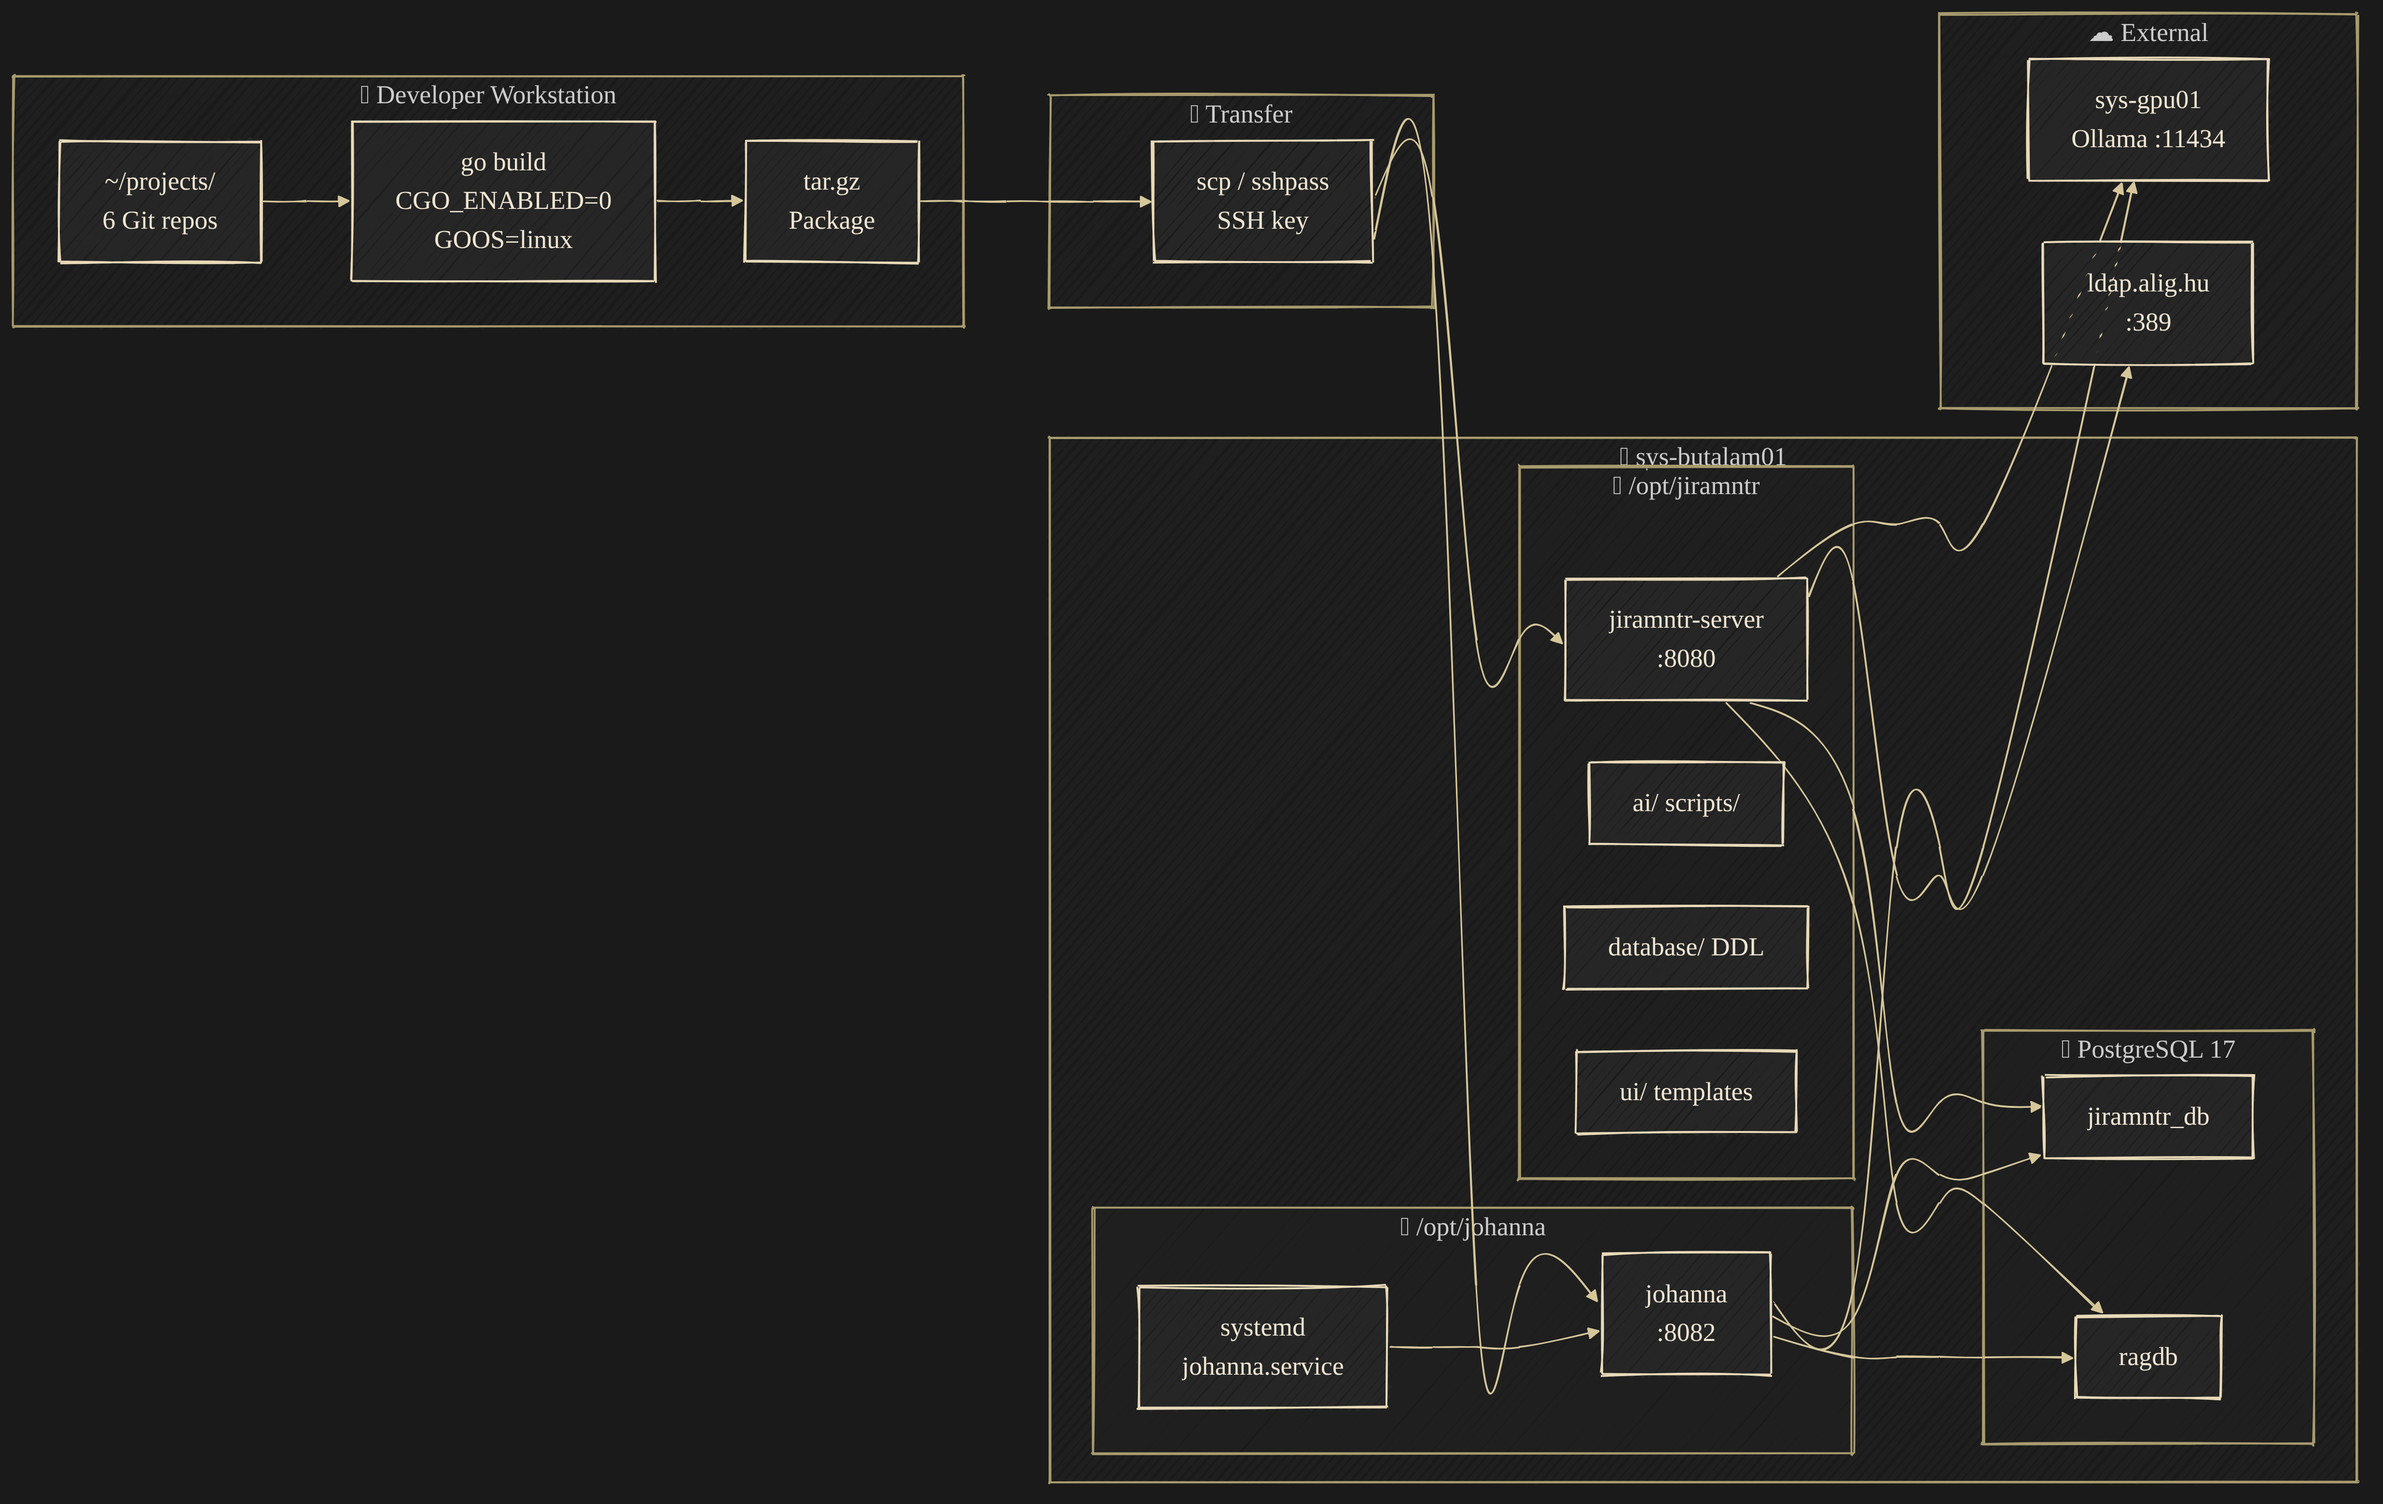
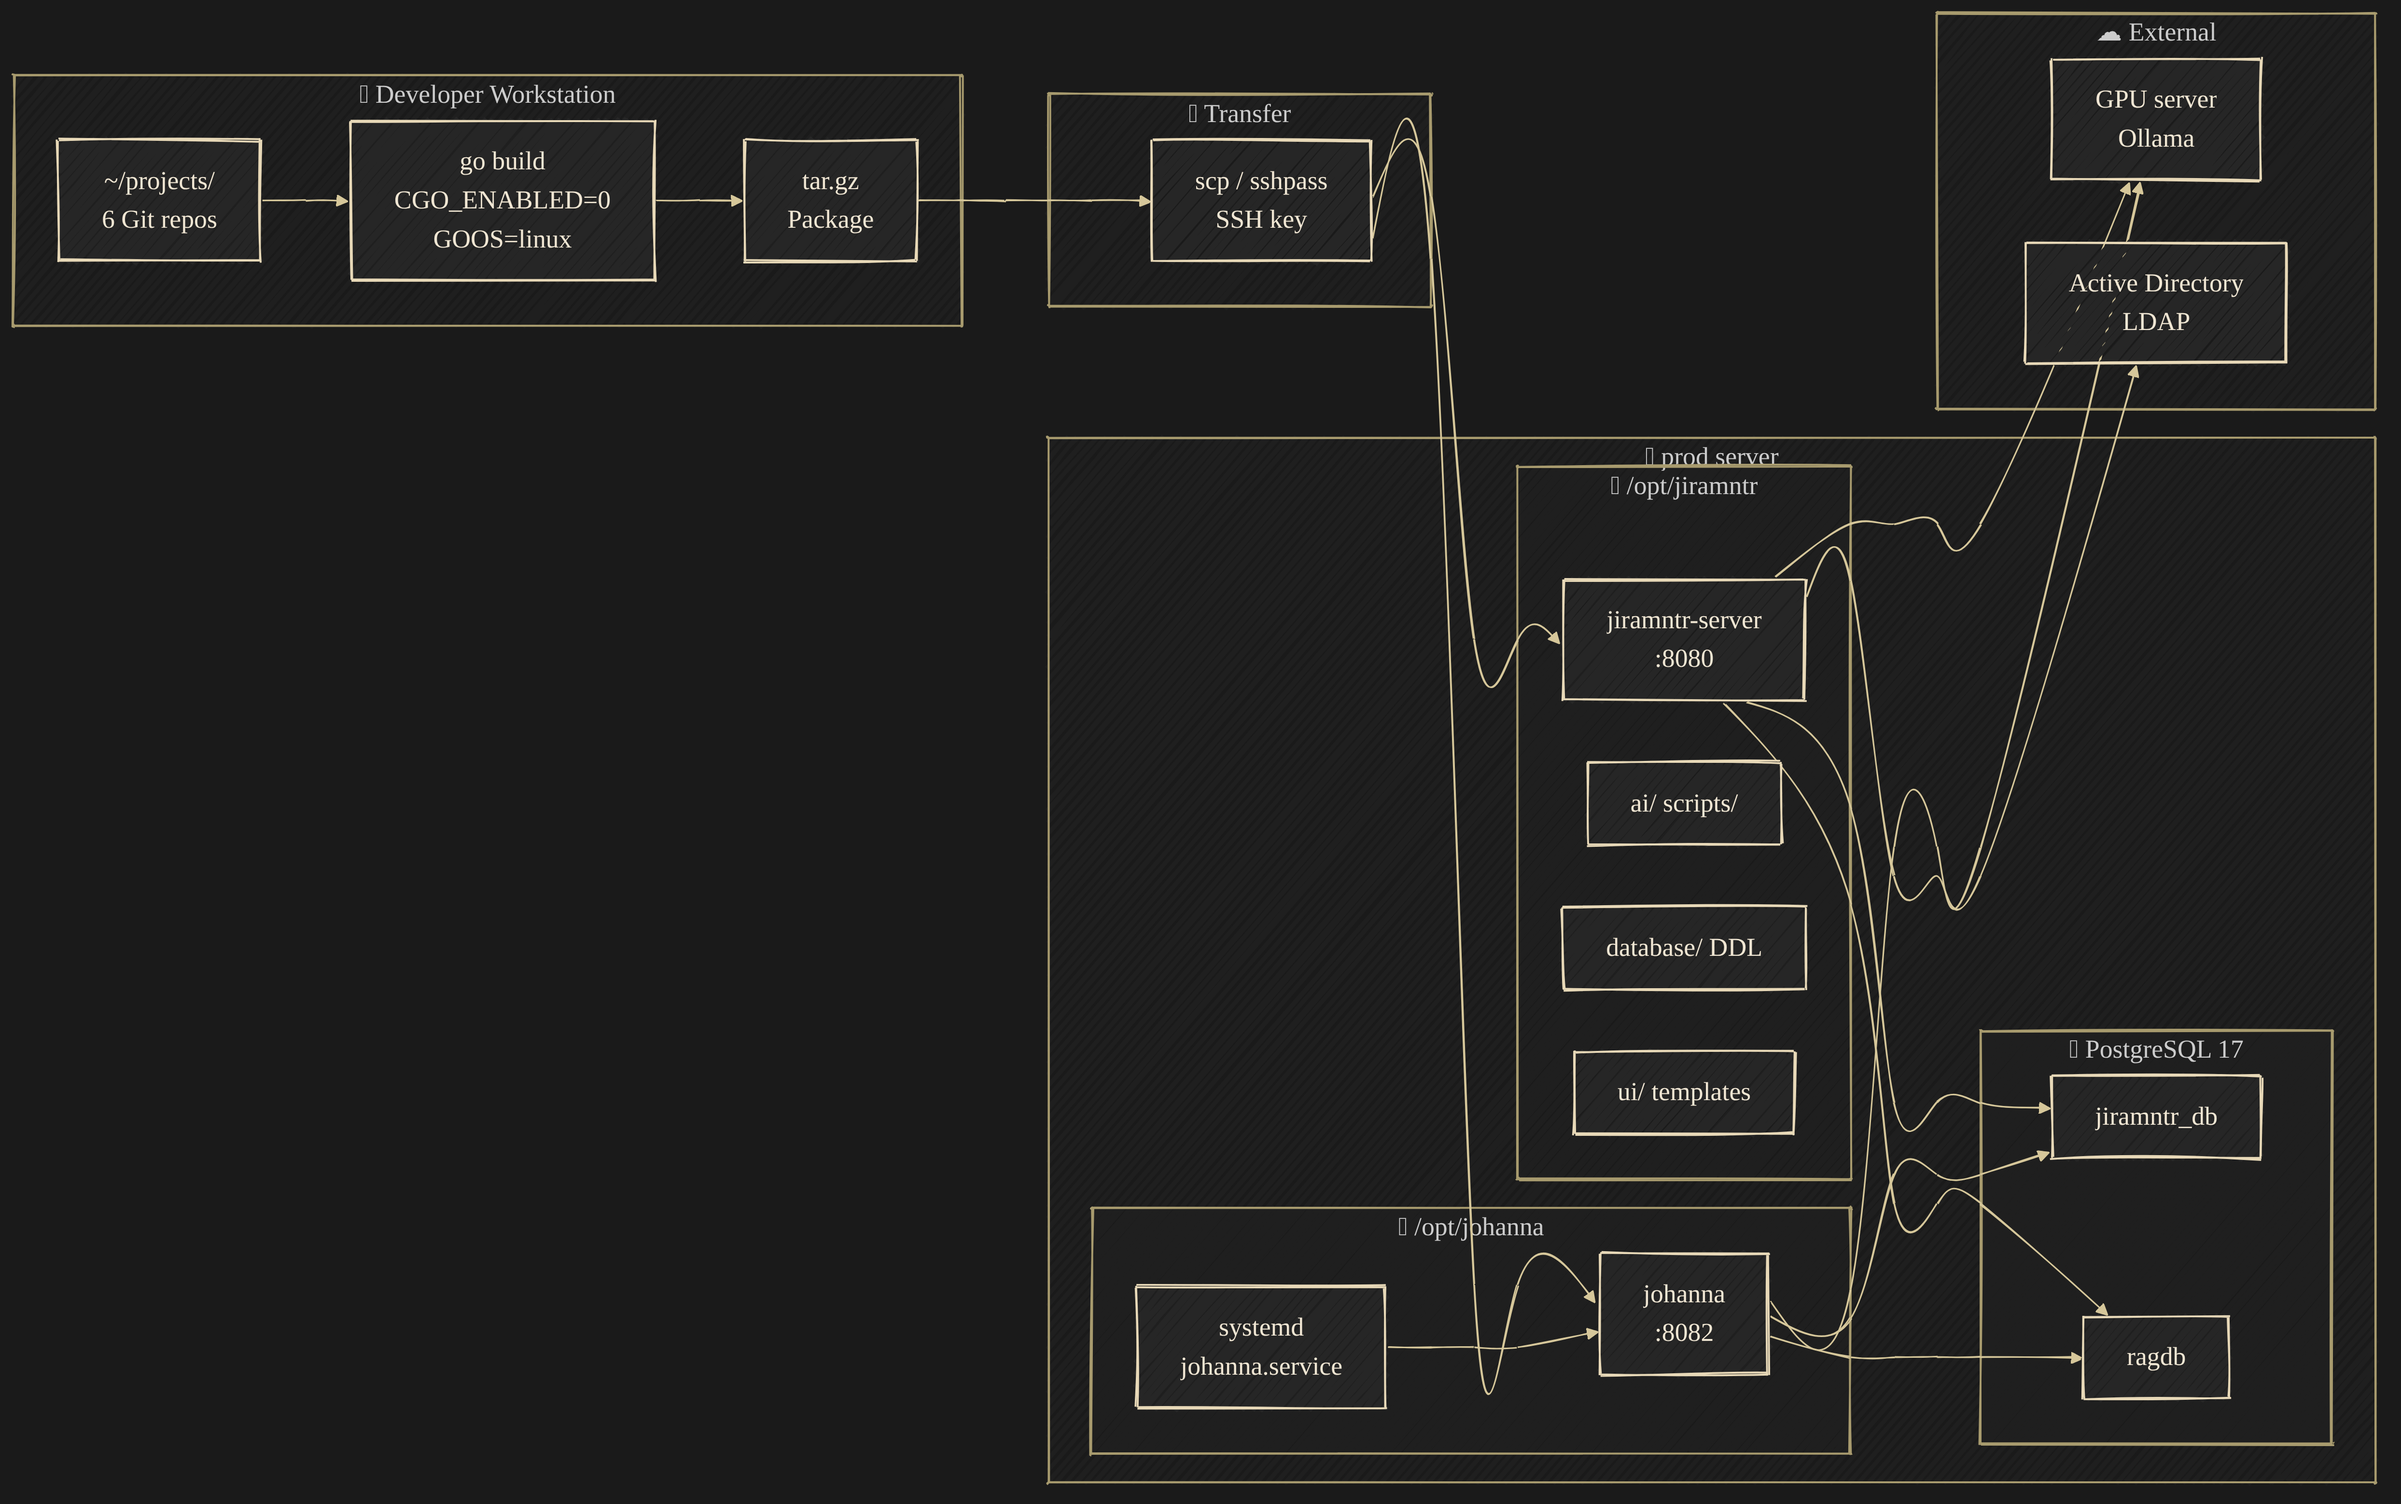
chore: generalise internal hostnames, usernames and key paths (public repo)
sys-butalam01 / sys-gpu01 / *.alig.hu / user + key names → "prod server",
"GPU server", "Active Directory" across the viewer config, docs, diagrams
(PNGs regenerated) and specs. deploy_butalam.sh → deploy.sh: the target now
comes from the local, gitignored .env.deploy (template deploy.env.example)
and the shim fails loud when a value is missing (A3) — no baked-in host.
Git history still holds the old names.

diff --git a/generate_docs.py b/generate_docs.py
@@ -117,7 +117,7 @@ def gen_architecture():
             "Use **views** (without `_h` suffix) for current-state queries \u2014 they auto-filter for active records.",
         ]),
         md_section("\u2699\ufe0f", "ETL", [
-            "Yearly partitioned orchestrator runs nightly on butalam,",
+            "Yearly partitioned orchestrator runs nightly on the prod server,",
             "with pre-flight checks and HWM incremental loading.",
         ]),
     ]
@@ -200,7 +200,7 @@ def gen_ingestion():
             "- \U0001f50d **Pre-flight TCP checks** \u2014 validates source availability before running",
             "- \U0001f4c8 **HWM pattern** \u2014 High Water Mark for incremental loading",
             "- \U0001f4ca **Observability** \u2014 logs timing, row counts, errors to `meta.etl_log`",
-            "- \U0001f554 **Schedule** \u2014 nightly cron on butalam server",
+            "- \U0001f554 **Schedule** \u2014 nightly cron on the prod server",
         ]),
     ]
     return NL.join(parts)
@@ -251,7 +251,7 @@ def gen_star_schema():
 
 def gen_mcp_detail():
     n_catalogs = count_files(JIRAMNTR_DIR / "internal/catalog", "*.json") or 50
-    n_chains = count_files(JIRAMNTR_DIR / "dist/butalam/ai/mcp/templates", "*.md") or 12
+    n_chains = count_files(JIRAMNTR_DIR / "dist", "*/ai/mcp/templates/*.md") or 12
 
     parts = [
         "# \U0001f9e0 MCP Catalog Pipeline",

diff --git a/docs/jira-monitor/deployment.md b/docs/jira-monitor/deployment.md
@@ -1,15 +1,15 @@
 # 🚀 Deployment
 
-> *Build → Transfer → Deploy to sys-butalam01*
+> *Build → Transfer → Deploy to the prod server*
 
 ## Quick Commands
 
 ```bash
 # Deploy jiramntr
-cd ~/projects/jiramntr && ./scripts/deploy_butalam.sh
+cd ~/projects/jiramntr && ./scripts/<deploy script>
 
 # Deploy johanna
-cd ~/projects/johanna && ./scripts/deploy_butalam.sh
+cd ~/projects/johanna && ./scripts/<deploy script>
 ```
 
 ## Server Layout
@@ -21,7 +21,7 @@ cd ~/projects/johanna && ./scripts/deploy_butalam.sh
 
 ## Build Process
 
-1. `switch_env.sh butalam` → load production `.env`
+1. `switch_env.sh <prod profile>` → load production `.env`
 2. `CGO_ENABLED=0 GOOS=linux GOARCH=amd64 go build` → Linux binary
 3. Package: binary + .env + config + ui + ai + scripts + database
 4. `scp` tarball → remote `/tmp/`
@@ -41,19 +41,19 @@ cd /opt/jiramntr && nohup ./run.sh > logs/server.log &
 ## Environment Files
 
 ```
-opt/envs/.env_butalam    ← production
+opt/envs/.env_<prod>     ← production
 opt/envs/.env_local      ← local dev
 ```
 
-Switch: `./scripts/switch_env.sh butalam`
+Switch: `./scripts/switch_env.sh <prod profile>`
 
 ## Network
 
 | Service | Host | Port |
 |---------|------|------|
-| SSH | `ssh -i ~/.ssh/butala nemetg@sys-butalam01` | 22 |
+| SSH | `ssh <user>@<prod server>` | 22 |
 | PostgreSQL | localhost | 5432 |
-| Jiramntr | sys-butalam01 | 8080 |
-| Johanna | sys-butalam01 | 8082 |
-| Ollama | sys-gpu01.alig.hu | 11434 |
-| LDAP | ldap.alig.hu | 389 |
+| Jiramntr | prod server | 8080 |
+| Johanna | prod server | 8082 |
+| Ollama | GPU server | 11434 |
+| LDAP | Active Directory | 389 |

diff --git a/pipelines/OPS-deploy_lookin.md b/pipelines/OPS-deploy_lookin.md
@@ -1,18 +1,18 @@
-# OPS: Deploy LookIn (static) → butalam
+# OPS: Deploy LookIn (static) → the prod server
 
 LookIn is 100 % static — no build step, ever. Deploy the static assets to
 `/opt/lookin/`, then symlink that directory into each project that wants to serve
 LookIn as a documentation page.
 
 Runs from the lookin repo root. Connection is driven entirely by env vars — set
-them in the environment or via the `deploy_butalam.sh` shim before calling.
+them in the environment or via the `deploy.sh` shim (which reads the local `.env.deploy`) before calling.
 
 Required env vars (set by the shim or CI):
-- `DEPLOY_HOST`       — SSH hostname (e.g. `sys-butalam01`)
-- `DEPLOY_USER`       — SSH username (e.g. `nemetg`)
-- `DEPLOY_KEY`        — path to SSH private key (e.g. `~/.ssh/butala`)
+- `DEPLOY_HOST`       — SSH hostname (e.g. `prod-server`)
+- `DEPLOY_USER`       — SSH username (e.g. `deploy`)
+- `DEPLOY_KEY`        — path to SSH private key (e.g. `~/.ssh/id_ed25519`)
 - `DEPLOY_DIR`        — remote deploy root (e.g. `/opt/lookin`)
-- `DEPLOY_RSYNC_HOST` — rsync host spec including user (e.g. `nemetg@sys-butalam01`)
+- `DEPLOY_RSYNC_HOST` — rsync host spec including user (e.g. `deploy@prod-server`)
 
 The per-project symlink targets live as **data** in the `link_targets` step below
 (was a hardcoded Bash array). Add a project by adding one object to that JSON list.

diff --git a/docs/specs/themed-tooltip-rollout/brief.md b/docs/specs/themed-tooltip-rollout/brief.md
@@ -30,7 +30,7 @@ foundation-ui deck engine. `landing.html` has none.
 - Convert the two runtime sites in `app.js` to `setAttribute('data-tip', …)`.
 - Carry a byte-identical copy of the floor's `tooltip.js` at the repo root and the floor's `.fui-tip`
   rule in `style.css`; load the script from `index.html`.
-- Add `tooltip.js` to the two lists of shipped files (`deploy_butalam.sh`, `pipelines/OPS-deploy_lookin.md`).
+- Add `tooltip.js` to the two lists of shipped files (`deploy.sh`, `pipelines/OPS-deploy_lookin.md`).
 - Add `scripts/check/check_tooltips.sh` as the T1 scan.
 
 ## Out of scope (A10)

diff --git a/docs/specs/themed-tooltip-rollout/design.md b/docs/specs/themed-tooltip-rollout/design.md
@@ -19,7 +19,7 @@ it does not live under `vendor/`.
 | `app.js` | `div.title = …` and `setAttribute('title', …)` → `setAttribute('data-tip', …)` |
 | `tooltip.js` | new — byte-identical copy of `foundation-ui/ui/js/tooltip.js` |
 | `style.css` | a token bridge, then the floor's `.fui-tip` rule, byte-identical |
-| `deploy_butalam.sh`, `pipelines/OPS-deploy_lookin.md` | `tooltip.js` added to the core file list |
+| `deploy.sh`, `pipelines/OPS-deploy_lookin.md` | `tooltip.js` added to the core file list |
 | `scripts/check/check_tooltips.sh` | new — the T1 scan (TS1–TS5) |
 
 ## Tokens

diff --git a/docs/specs/themed-tooltip-rollout/audit.md b/docs/specs/themed-tooltip-rollout/audit.md
@@ -4,7 +4,7 @@
 
 - `scripts/check/check_tooltips.sh` exits 0. Red before, 11 findings: 4 × TS1, 2 × TS2, 2 × TS3, 1 × TS4, 2 × TS5.
 - `diff tooltip.js ../foundation-ui/ui/js/tooltip.js` — identical at copy time.
-- `bash -n deploy_butalam.sh` clean; `pf --validate pipelines/OPS-deploy_lookin.md` OK (two env-var warnings, expected off the deploy host).
+- `bash -n deploy.sh` clean; `pf --validate pipelines/OPS-deploy_lookin.md` OK (two env-var warnings, expected off the deploy host).
 - Nothing was deployed and the page was not opened in a browser.
 
 ## Residual risk and open items

diff --git a/CLAUDE.md b/CLAUDE.md
@@ -15,7 +15,7 @@ Pure static HTML/CSS/JS — single `index.html` rendered dynamically by `app.js`
 
 ## Commands
 - `./generate_png.sh` — regenerate diagrams (one-time, requires `npm install`).
-- `./deploy_butalam.sh` — deploy.
+- `./deploy.sh` — deploy to the prod server (target from the local, gitignored `.env.deploy`; template `deploy.env.example`).
 - `../pipeline-forge/bin/pf pipelines/OPS-publish_pages.md --arg push=true` — publish the landing page to GitHub Pages (`gh-pages` branch; no Actions).
 
 ## SDD — spec-driven development

diff --git a/docs/jiramntr/security.md b/docs/jiramntr/security.md
@@ -26,7 +26,7 @@ For cross-department data access (e.g. fekegy accessing IIER area data):
 - Admin grants tokens via **Settings → RLS Tokens** page
 - Tokens are validated against SHA256 hash of the SQL block
 - **Auto-rehash**: On server startup, hashes are refreshed — SQL edits don't break tokens
-- Admin users (`nemetg`) bypass all RLS checks
+- Admin users bypass all RLS checks
 
 ### Logging
 All Go applications use structured logging via `log/slog` with key-value pairs.

diff --git a/docs/jira-monitor/enterprise.md b/docs/jira-monitor/enterprise.md
@@ -15,10 +15,10 @@
 
 ## Infrastructure
 
-- **Server**: sys-butalam01 (Ubuntu, PostgreSQL 17.7)
-- **GPU**: sys-gpu01 (Ollama LLM — sqlcoder, llama3, qwen3)
-- **Auth**: ldap.alig.hu (Active Directory)
-- **Source**: Oracle FDW → racdb.alig.hu
+- **Server**: prod server (Ubuntu, PostgreSQL 17.7)
+- **GPU**: GPU server (Ollama LLM — sqlcoder, llama3, qwen3)
+- **Auth**: Active Directory (LDAP)
+- **Source**: Oracle FDW → the JIRA Oracle database
 
 ## Databases
 

diff --git a/docs/mcp-forge/mcp_forge.md b/docs/mcp-forge/mcp_forge.md
@@ -41,7 +41,7 @@ Claude acts as the **teacher** for Ollama (the local student SLM):
 | **Mode 3** — Q/A Gen | Generates `mcp.teaching` test pairs from rules |
 | **Mode 4** — Validate | Replays Q/A through Ollama → scores in `mcp.teaching_run` |
 
-Runs as a `systemd` timer on butalam, zero changes to ai-chat Go pipeline.
+Runs as a `systemd` timer on the prod server, zero changes to ai-chat Go pipeline.
 
 ## Embedding Pipeline
 

diff --git a/docs/jiramntr/ingestion.md b/docs/jiramntr/ingestion.md
@@ -25,4 +25,4 @@ TER API   ──→ ext.ter_data ─────────────→┘
 - 🔍 **Pre-flight TCP checks** — validates source availability before running
 - 📈 **HWM pattern** — High Water Mark for incremental loading
 - 📊 **Observability** — logs timing, row counts, errors to `meta.etl_log`
-- 🕔 **Schedule** — nightly cron on butalam server
+- 🕔 **Schedule** — nightly cron on the prod server

diff --git a/docs/specs/pages-publish-pf/brief.md b/docs/specs/pages-publish-pf/brief.md
@@ -10,4 +10,4 @@ reached the site, which still shows the retired JiraDa name and dead links.
   `index.html`, `favicon.svg`, `vendor/`. Nothing else from the repo goes public.
 - **G3** One publish path: the Actions workflow file is removed.
 
-**Scope.** lookin only. The butalam deploy (`OPS-deploy_lookin.md`) is unchanged.
+**Scope.** lookin only. The prod-server deploy (`OPS-deploy_lookin.md`) is unchanged.
